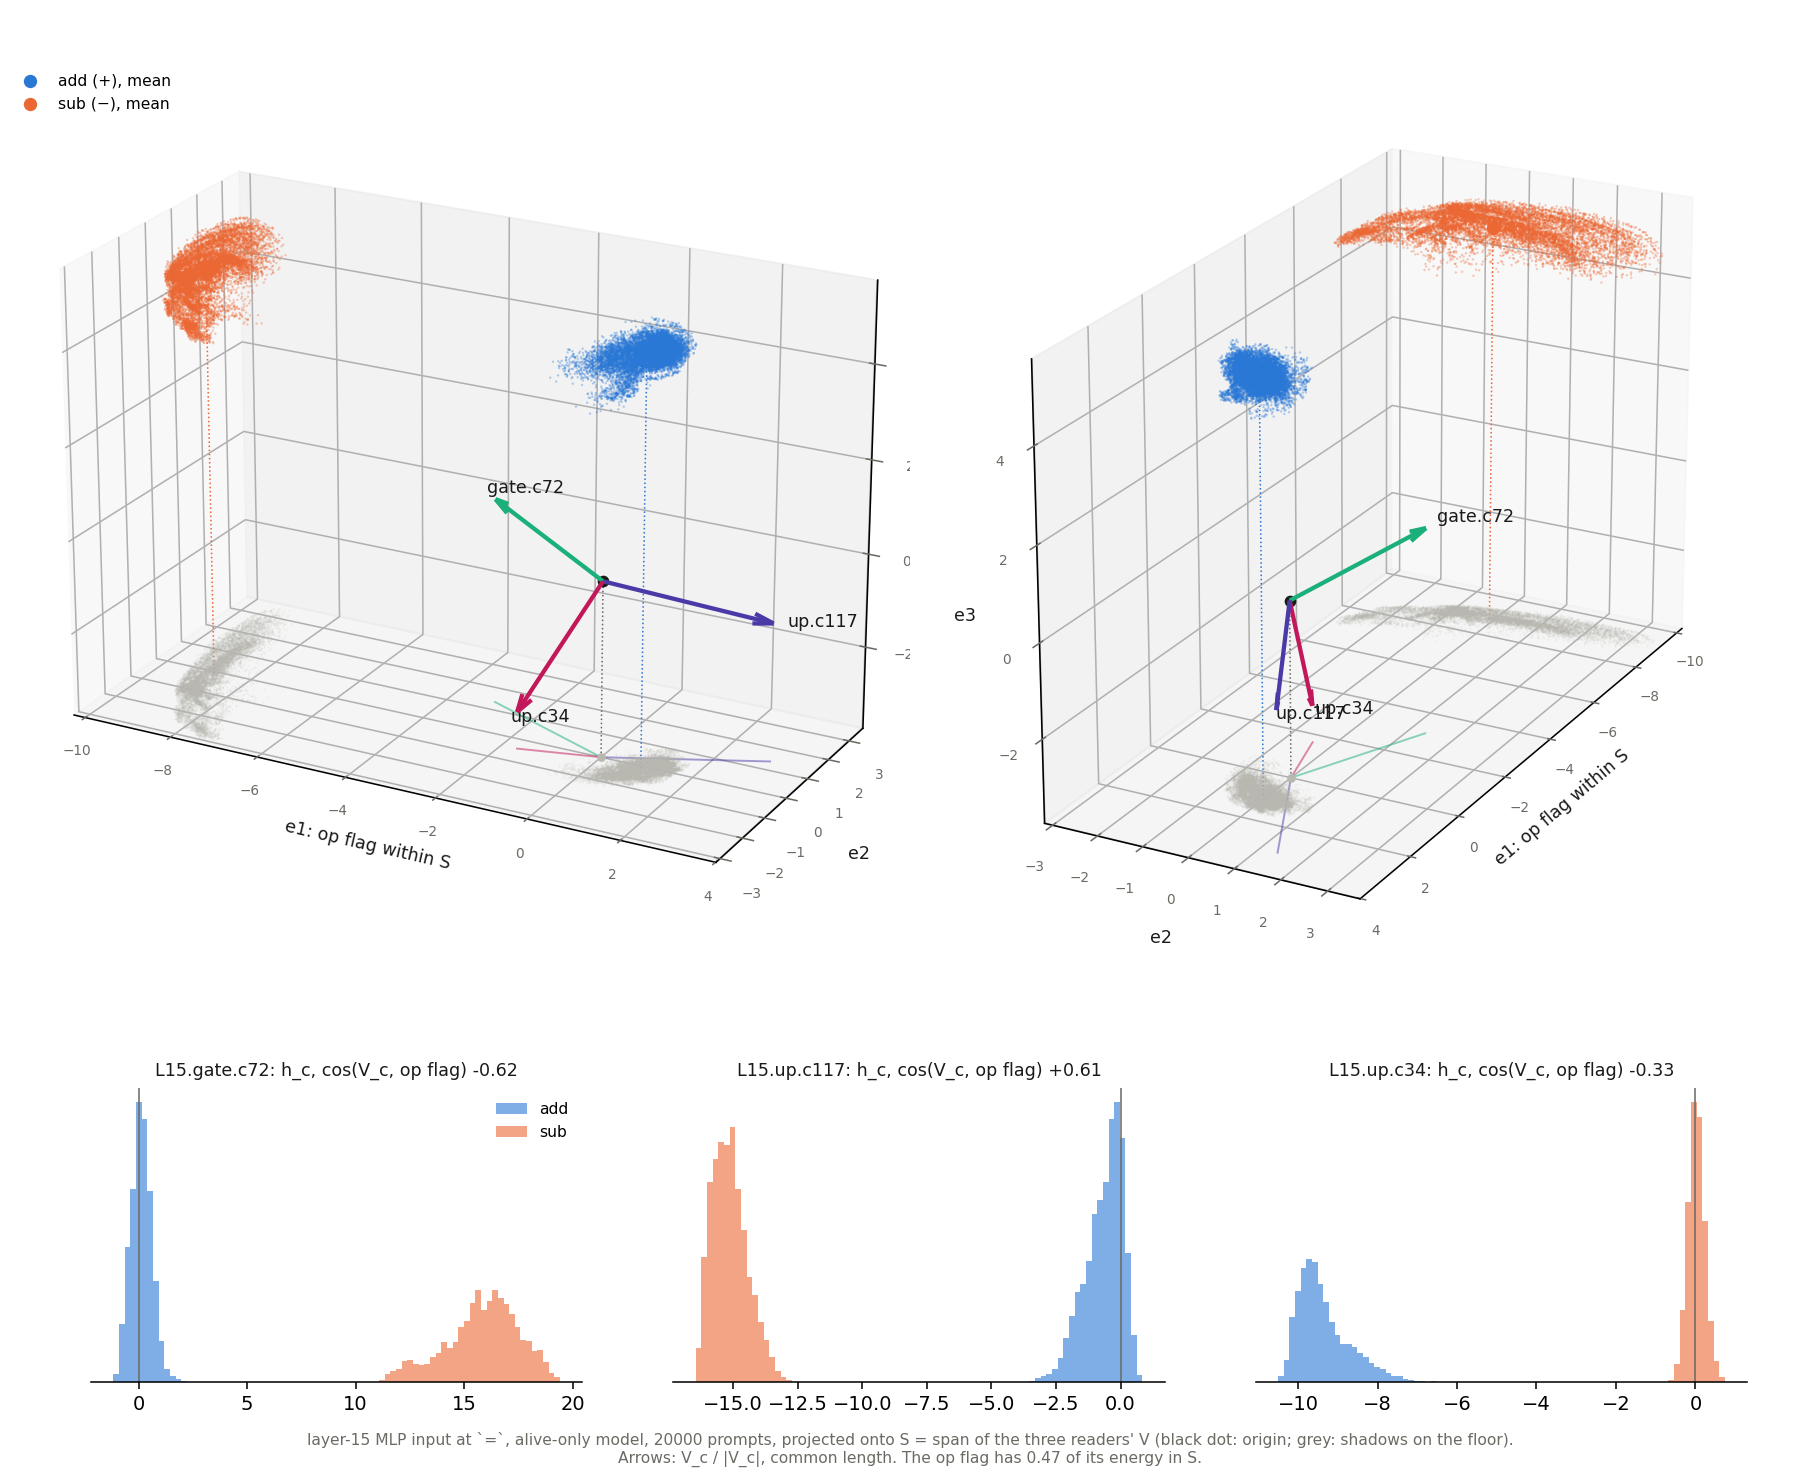
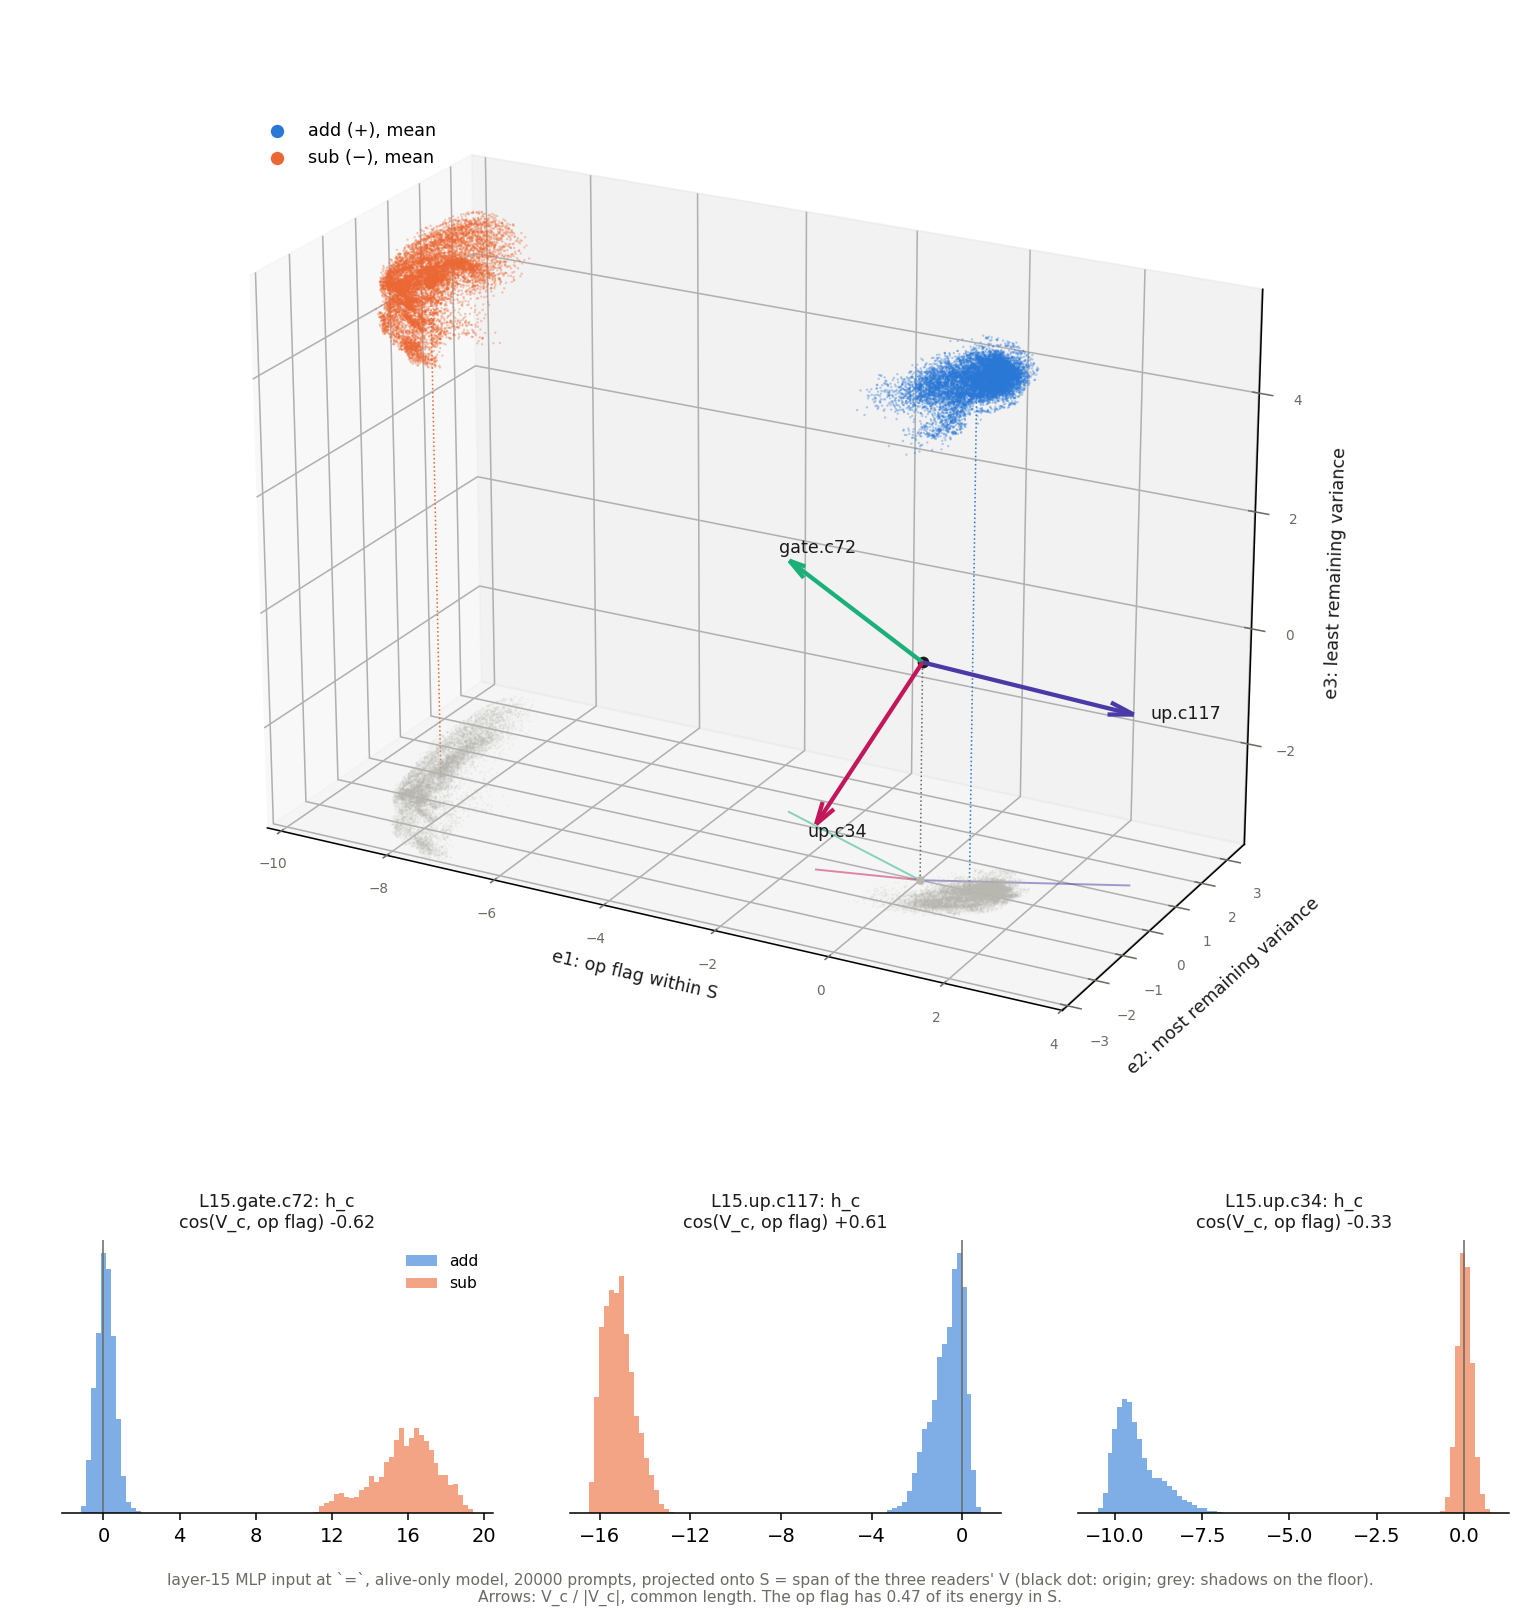
arith_repr: op-reader plot — single 3D view, readable histogram ticks and axis labels

diff --git a/param_decomp/arith_repr/vectors/flip_op_readers.py b/param_decomp/arith_repr/vectors/flip_op_readers.py
@@ -10,7 +10,7 @@ h_c = 0 on the plane through the origin orthogonal to V_c. S = span(V_72, V_117,
 dimensions); every V_c lies in S, so h_c / |V_c| is the coordinate of xin's projection onto S along
 V_c / |V_c|. Basis of S: e1 = the op flag (mean xin on add - mean xin on sub) projected onto S,
 normalized; e2, e3 = the directions of S orthogonal to e1, ordered by the variance of xin along them.
-* Top: two views of the 3D cloud of xin's projections onto S (blue add, orange sub), with each dot's
+* Top: the 3D cloud of xin's projections onto S (blue add, orange sub), with each dot's
   shadow on the floor of the box (grey); arrows from the origin along V_c / |V_c|, all drawn at the
   same length.
 * Bottom: histograms of h_c per operation."""
@@ -23,6 +23,7 @@ import numpy as np
 
 matplotlib.use("Agg")
 import matplotlib.pyplot as plt
+from matplotlib.ticker import MaxNLocator
 
 from param_decomp.arith_repr.isa.components_model import ComponentsModel
 from param_decomp.arith_repr.vectors.flip_components import DIR
@@ -79,9 +80,9 @@ def main() -> None:
     pad = 0.04 * (hi - lo)
     lo, hi = lo - pad, hi + pad
     idx = np.random.default_rng(0).permutation(len(op))
-    fig = plt.figure(figsize=(13, 10.5))
-    for vi, (elev, azim) in enumerate(((22, -62), (22, 28))):
-        ax = cast(Any, fig.add_axes((0.0 + 0.5 * vi, 0.33, 0.5, 0.64), projection="3d"))
+    fig = plt.figure(figsize=(11, 11.5))
+    for vi, (elev, azim) in enumerate(((22, -62),)):
+        ax = cast(Any, fig.add_axes((0.02, 0.29, 0.92, 0.70), projection="3d"))
         ax.scatter(P[idx, 0], P[idx, 1], np.full(len(idx), lo[2]), s=1, c=SHADOW, alpha=0.15,
                    linewidths=0, depthshade=False)  # fmt: skip
         ax.scatter(P[idx, 0], P[idx, 1], P[idx, 2], s=1.5, c=np.where(op[idx] == 0, ADD, SUB),
@@ -112,18 +113,19 @@ def main() -> None:
         ax.set_box_aspect(tuple(hi - lo))
         ax.view_init(elev=elev, azim=azim)
         ax.set_xlabel("e1: op flag within S", fontsize=9, color=INK)
-        ax.set_ylabel("e2", fontsize=9, color=INK)
-        ax.set_zlabel("e3", fontsize=9, color=INK)
+        ax.set_ylabel("e2: most remaining variance", fontsize=9, color=INK)
+        ax.set_zlabel("e3: least remaining variance", fontsize=9, color=INK)
         ax.tick_params(labelsize=7, colors=MUTED)
         if vi == 0:
-            ax.legend(loc="upper left", fontsize=8, frameon=False)
+            ax.legend(loc="upper left", bbox_to_anchor=(0.06, 0.92), fontsize=9, frameon=False)
     for i, n in enumerate(READERS):
-        ax = fig.add_axes((0.05 + 0.32 * i, 0.06, 0.27, 0.2))
+        ax = fig.add_axes((0.04 + 0.33 * i, 0.06, 0.28, 0.17))
+        ax.xaxis.set_major_locator(MaxNLocator(6))
         bins = np.linspace(h[:, i].min(), h[:, i].max(), 80)
         for o, colr, nm in ((0, ADD, "add"), (1, SUB, "sub")):
             ax.hist(h[op == o, i], bins=bins, color=colr, alpha=0.6, label=nm)
         ax.axvline(0, color=MUTED, lw=0.8)
-        ax.set_title(f"{n}: h_c, cos(V_c, op flag) {cos[n]:+.2f}", fontsize=9, color=INK)
+        ax.set_title(f"{n}: h_c\ncos(V_c, op flag) {cos[n]:+.2f}", fontsize=9, color=INK)
         ax.set_yticks([])
         for s in ("top", "right", "left"):
             ax.spines[s].set_visible(False)
